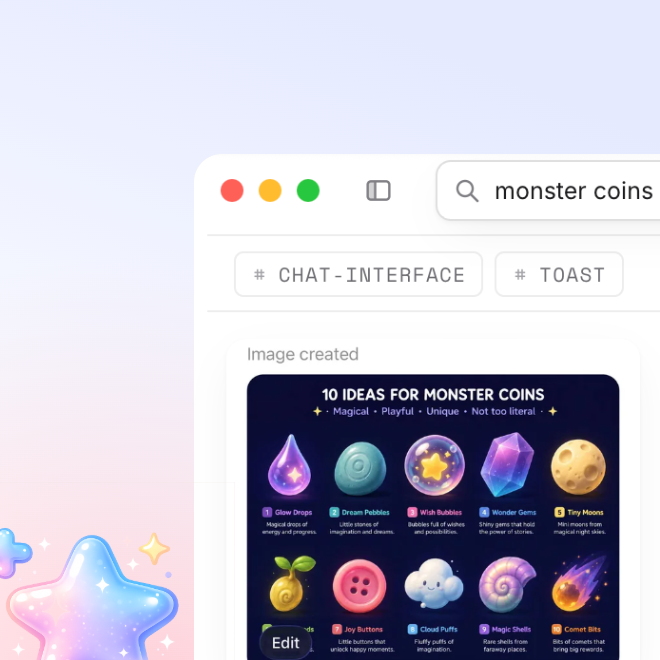
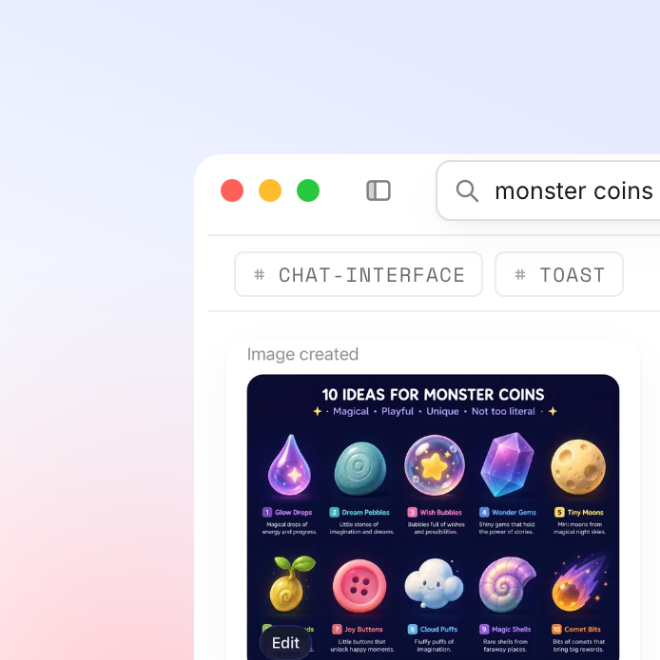
fix: mobile polish (hide header CTA and bento decors, narrow sync cell), rebake search card per Figma

Changed region(s): [[0.0, 0.7879, 0.2727, 1.0], [0.2121, 0.7879, 0.2727, 0.8485]]

diff --git a/diivo/index.html b/diivo/index.html
@@ -1578,7 +1578,10 @@
     }
 
     @media (max-width: 520px){
-      .nav-cta span.full{ display: none; }
+      /* mobile: no header download button, no bento decor images, sync cell narrow */
+      .nav-cta{ display: none; }
+      .bento-decor{ display: none; }
+      .bento-grid .bento-cell:last-child{ grid-column: span 1; }
     }
 
     @media (prefers-reduced-motion: reduce){

diff --git a/diivo/ua/index.html b/diivo/ua/index.html
@@ -1578,7 +1578,10 @@
     }
 
     @media (max-width: 520px){
-      .nav-cta span.full{ display: none; }
+      /* mobile: no header download button, no bento decor images, sync cell narrow */
+      .nav-cta{ display: none; }
+      .bento-decor{ display: none; }
+      .bento-grid .bento-cell:last-child{ grid-column: span 1; }
     }
 
     @media (prefers-reduced-motion: reduce){
